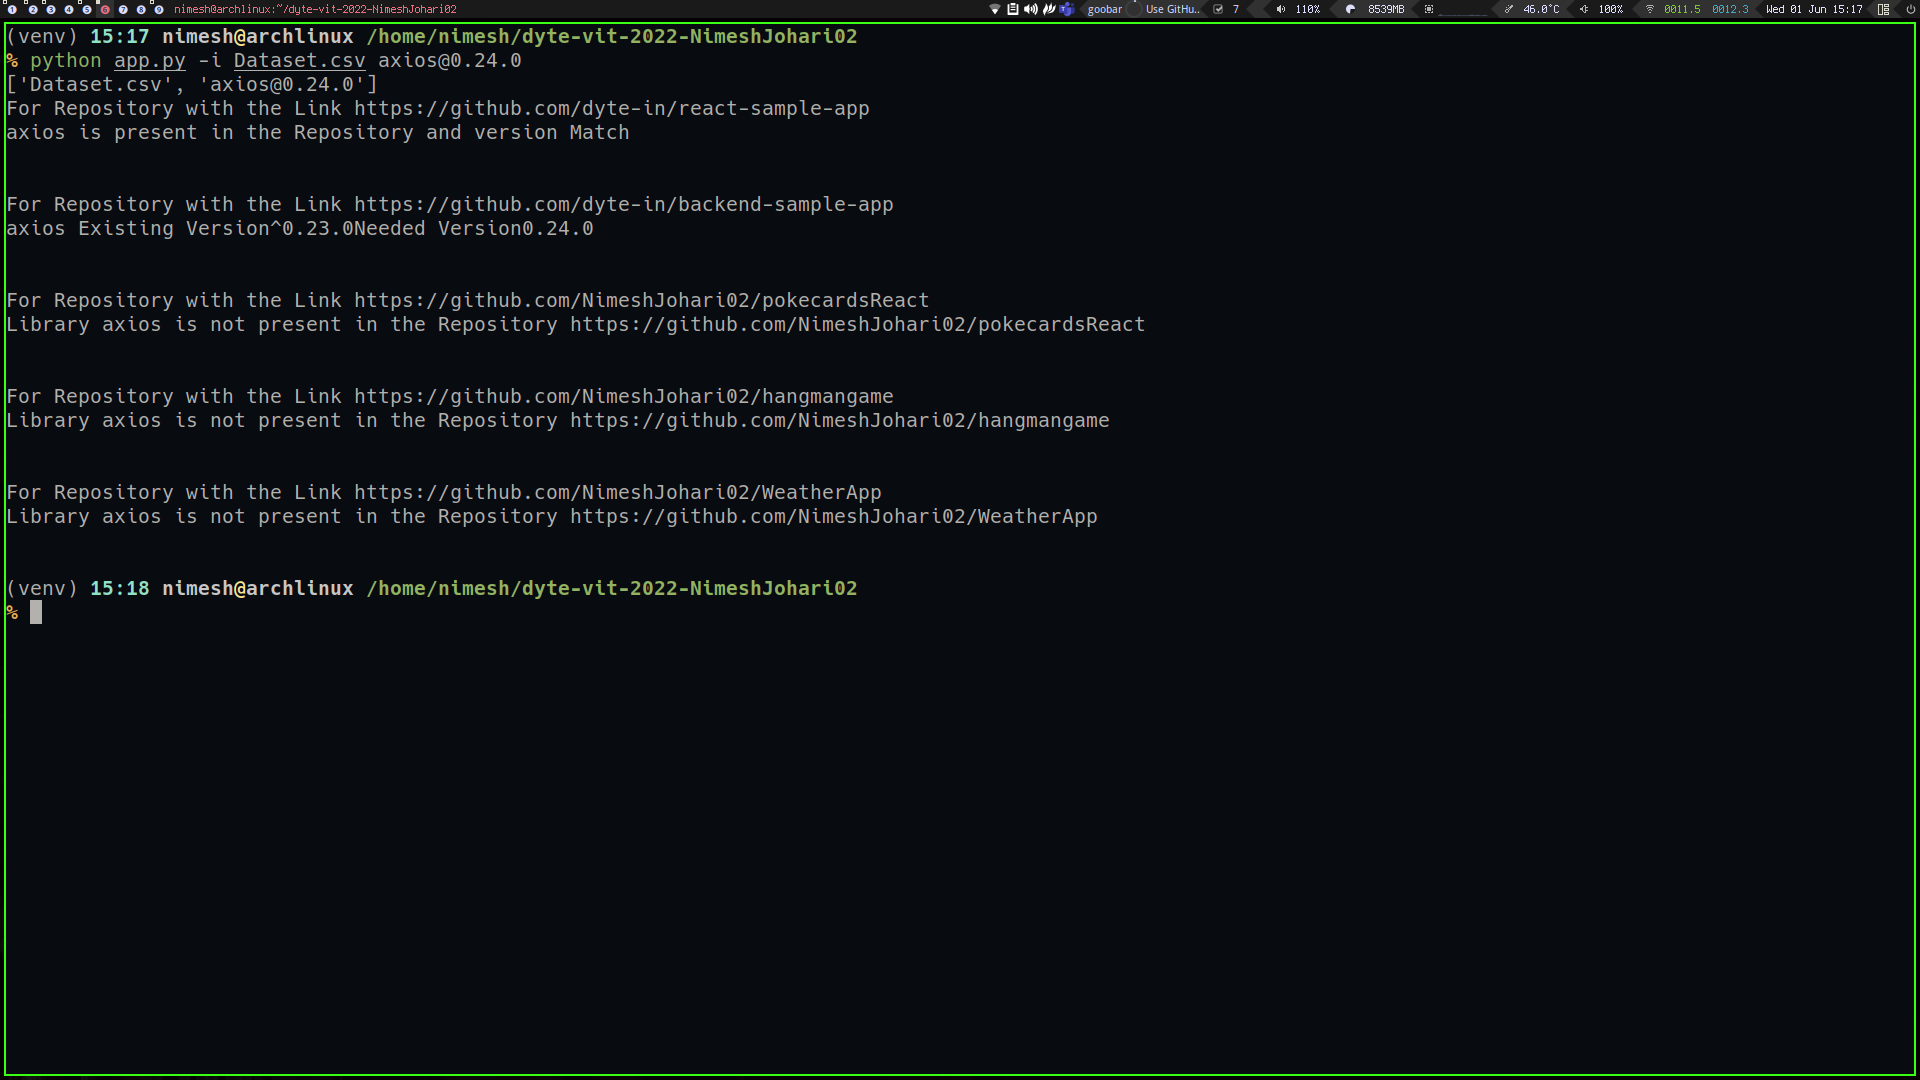
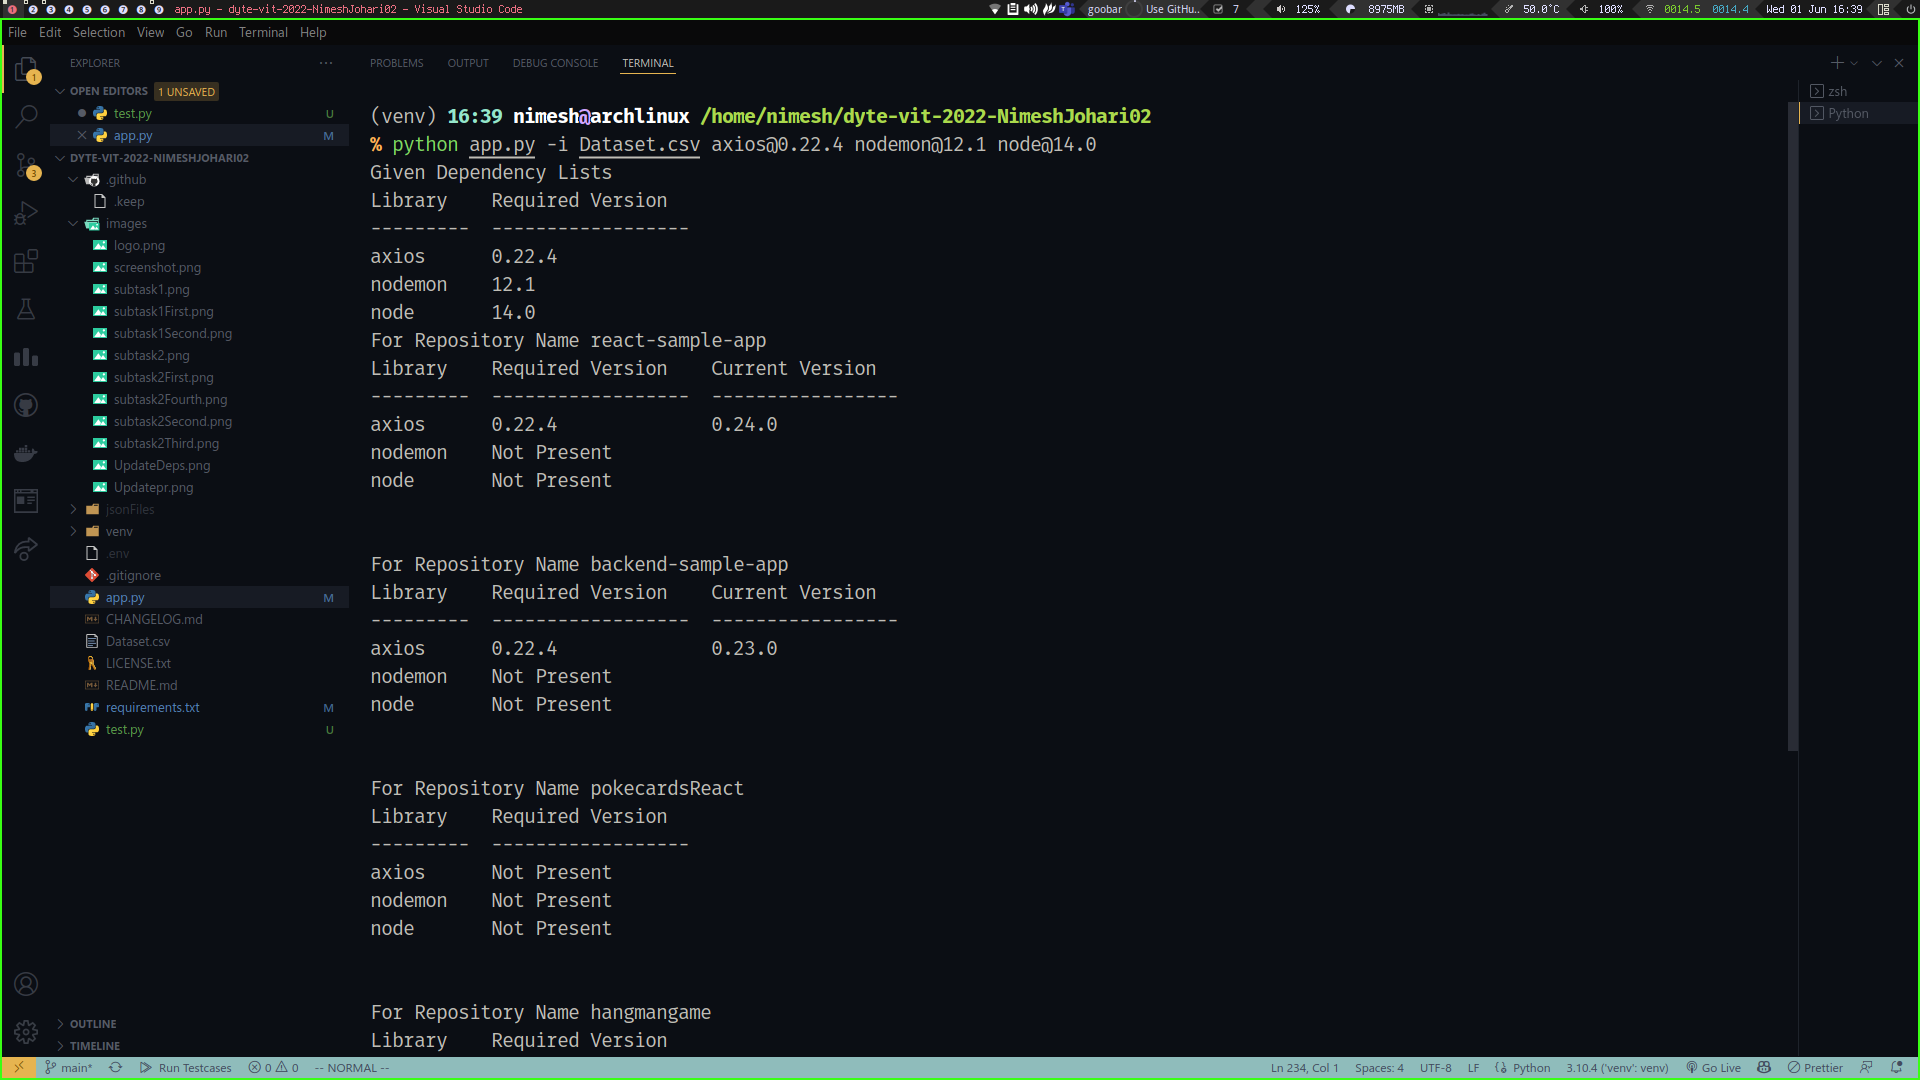
Init Test.py A No Download Version using PyGithub

diff --git a/app.py b/app.py
@@ -3,8 +3,9 @@ import csv
 from dbm.ndbm import library
 from doctest import REPORT_CDIFF
 import json, requests
+from sys import stdout
 from pip import main
-from pickle import TRUE
+from pickle import FALSE
 import os 
 import argparse
 from urllib.request import urlopen
@@ -13,17 +14,18 @@ from dotenv import load_dotenv
 from github import Github
 from base64 import b64encode
 from json import dumps
-
+from tabulate import tabulate
 
 load_dotenv();
+
 g = Github(os.getenv('GITHUB_AUTH_TOKEN'));
 username = os.getenv('GITHUB_USERNAME');
 auth_token = os.getenv('GITHUB_AUTH_TOKEN');
 
 
-def runcmd(cmd, verbose = False, *args, **kwargs):
+def runcmd(cmd, verbose = FALSE, *args, **kwargs):
     process = subprocess.Popen(
-        cmd,
+        cmd +" > /dev/null",
         stdout = subprocess.PIPE,
         stderr = subprocess.PIPE,
         text = True,
@@ -33,7 +35,7 @@ def runcmd(cmd, verbose = False, *args, **kwargs):
     if verbose:
         print(std_out.strip(), std_err)
     pass
-
+#Superss Output of runcmd
 # taking command line input 
 msg="Welcome to the Dyte Dependency CLI . Your reliable dependabot clone without the annoying Notifications :) ";
 parser = argparse.ArgumentParser(description=msg)
@@ -62,7 +64,6 @@ def getNodeModulesFile(url):
 librariesList = []
 for _, value in parser.parse_args()._get_kwargs():
     if value is not None:
-        print(value)
         librariesList = value[1:]
 #Check Whether required Libraries are present in the list
 inputDict={}
@@ -91,11 +92,8 @@ links=links[1:]
 # i need to create a dictionary with the links as keys and the dependencies as values
 def downloadFile(link):      
     name = link.split('/')[-1];
-    print(link)
-    print(name)
-    print(getRawURL(link))
     cmd = "curl " + getRawURL(link)+" --create-dirs -o jsonFiles/"+name+"/package.json"
-    runcmd(cmd , verbose=TRUE);
+    createDirs = runcmd(cmd , verbose=FALSE);
 
 def convertBase64ToJson(base64):
     return json.loads(base64)
@@ -111,10 +109,23 @@ def getPackageJson(link):
     # convert base64 to json
     json_data = convertBase64ToJson(base64)
     return json_data  
+# create table to store name and required version of each library
+print("Given Dependency Lists")
+def createTable(inputDict):
+    table = []
+    for key, value in inputDict.items():
+        table.append([key, value])
+    return table
+
+print(tabulate(createTable(inputDict), headers=['Library', 'Required Version']))
+
+table = []
 
 
+def getRepositoryName(link):
+    name = link.split('/')[-1]
+    return name 
 for link in links:
-    print("For Repository with the Link " + link)
     try:
         deps = getNodeModulesFile(link)['dependencies']
     except:
@@ -125,34 +136,35 @@ for link in links:
         if library in deps:
             #remove first char from deps[library]
             if inputDict[library] == deps[library].split('^')[1]:
-                print(library + " is present in the Repository and version Match "  )
+                #Add to table saying Curr Version is same as Required Version
+                table.append([library, inputDict[library] , deps[library].split('^')[1]])
             else:
-                print( library + " Existing Version" + deps[library] + "Needed Version" + inputDict[library])
-
+                #Add to table saying Curr Version is not same as Required Version
+                table.append([library,inputDict[library] ,  deps[library].split('^')[1]])
         else:
-            print("Library " + library + " is not present in the Repository " + link)
+            #Add to table saying Library is not present in the Repository
+            table.append([library, "Not Present"])
+    print("For Repository Name " + getRepositoryName(link))
+    print(tabulate(table, headers=['Library', 'Required Version', 'Current Version']))
+    #Clear Table for next Repository
+    table = []
     print("\n")
-
-
-def getRepositoryName(link):
-    name = link.split('/')[-1]
-    return name 
 
 #get repo name from link
 def performShallowClone(link):
     name = link.split('/')[-1];
     #get repo name from link
     cmd = "git clone " + link + " --depth 1 --branch main --single-branch jsonFiles/"+name
-    runcmd(cmd , verbose=TRUE);
+    # pipe output of command to null
+    clone = runcmd(cmd , verbose=FALSE );
 def clonePrivateRepo(link):
     name = link.split('/')[-1];
     cmd ="gh repo clone "+username+":"+name +" jsonFiles/"+name
-    runcmd(cmd , verbose=TRUE);
+    clonePvt = runcmd(cmd , verbose=FALSE);
 # def getPackageJSON(link):
 #     name = getRepositoryName(link);
 #     repository =g.get_repo(os.getenv('GITHUB_USERNAME')+'/'+name)
 #     content = repository.get_contents('package.json')
-#     print(content);
 #     base64_string = content.decode('utf-8')
 #     json_data = dumps(base64_string, indent=2)
 #     return json_data
@@ -165,13 +177,13 @@ def getForkURLFromURL(link):
 def getCompanyName(link):
     name = link.split('/')[-2];
     return name
-
+table = []
+# Table to store Repo Name Library Version Needed Version and Pull Request URL
 if args.update:
-    print("Updating Dependencies");
     #fork the repo 
     for link in links:
         cmd ="gh repo fork "+link;
-        runcmd(cmd , verbose=TRUE);
+        forkRepo = runcmd(cmd , verbose=FALSE);
         #get fork url
         name = getRepositoryName(link);
         str = getForkURLFromURL(link);
@@ -194,25 +206,28 @@ if args.update:
         #generate name for branch
         branchName = "update_"+library+"_"+inputDict[library]
         cmd = "cd jsonFiles/"+name+" && git checkout -b" +branchName+"&&  git add package.json && git commit -m 'updated dependencies' && git push --force origin "+branchName
-        runcmd(cmd , verbose=TRUE);
+        commitChanges = runcmd(cmd , verbose=FALSE);
         #open pull request using pygithub
         organisation_name = getCompanyName(link);
         #repo = g.get_repo(username+'/'+name)
         #create a pull request using pygithub
         try:
             #create pr from deps to master
-            cmd="""curl -u """+ username+""":"""+auth_token+""" -X POST -H "Accept: application/vnd.github.v3+json"  https://api.github.com/repos/"""+organisation_name+"/"+name+"""/pulls -d '{"title":"Update Dependency ","body":"Update Dependencies","head":"""+'"'+username+":"+branchName+'"'+""","base":"main"}'""";
-            runcmd(cmd , verbose=TRUE);
+           # cmd="""curl -u """+ username+""":"""+auth_token+""" -X POST -H "Accept: application/vnd.github.v3+json"  https://api.github.com/repos/"""+organisation_name+"/"+name+"""/pulls -d '{"title":"Update Dependency ","body":"Update Dependencies","head":"""+'"'+username+":"+branchName+'"'+""","base":"main"}'""";
+            #createPr = runcmd(cmd , verbose=False)
+            #get the pull request url and store in variable
+            cmd = "curl -u "+username+":"+auth_token+" -X GET -H \"Accept: application/vnd.github.v3+json\" https://api.github.com/repos/"+organisation_name+"/"+name+"/pulls"
+            #get Last Request from cmd 
+            pullRequestURL = runcmd(cmd , verbose=FALSE);
+            table.append([name, library, inputDict[library], deps[library].split('^')[1], pullRequestURL]);
         except Exception as e:
             print(e);
-            print("Pull Request Already Exists")
         #pr ="""gh api --method POST -H "Accept: application/vnd.github.v3+json" /repos/{}/{}/pulls -f title='Dependency Update' -f body='Please pull these awesome changes in!' -f head='{}:{}' -f base={}""".format(organisation_name,name,username,name,'main');
-        # runcmd(pr , verbose=TRUE);
+        # runcmd(pr , verbose=FALSE);
         #delete from local Storage
         cmd = "rm -rf jsonFiles/"+name
-        runcmd(cmd , verbose=TRUE);
+        remove = runcmd(cmd , verbose=FALSE);
         # Check For Already Made PR 
-        print("Checking for Pull Requests in Each Repository")
-        cmd = "gh pr list "+username+"/"+name+" | grep -i 'update_"+library+"_"+inputDict[library]+"'";
-        runcmd(cmd , verbose=TRUE);
-        
+        #Create Table
+        print(tabulate(table, headers=['Repository Name', 'Library', 'Required Version', 'Current Version', 'Pull Request URL']))
+        table=[];

diff --git a/test.py b/test.py
@@ -1,0 +1,137 @@
+from cProfile import run
+import csv
+from dbm.ndbm import library
+from doctest import REPORT_CDIFF
+import json, requests
+from sys import stdout
+from pip import main
+from pickle import FALSE
+import os 
+import argparse
+from urllib.request import urlopen
+import subprocess
+from dotenv import load_dotenv
+from github import Github
+from base64 import b64encode
+from json import dumps
+from tabulate import tabulate
+
+load_dotenv();
+
+g = Github(os.getenv('GITHUB_AUTH_TOKEN'));
+username = os.getenv('GITHUB_USERNAME');
+auth_token = os.getenv('GITHUB_AUTH_TOKEN');
+
+#Superss Output of runcmd
+# taking command line input 
+msg="Welcome to the Dyte Dependency CLI . Your reliable dependabot clone without the annoying Notifications :) ";
+parser = argparse.ArgumentParser(description=msg)
+parser.add_argument('-u' , '--update' , help="Update the Dependancy CLI"  , nargs='?' )
+parser.add_argument('-i', '--input', help='File to be read', nargs='+' , required=True)
+args = parser.parse_args()
+
+
+librariesList = []
+for _, value in parser.parse_args()._get_kwargs():
+    if value is not None:
+        librariesList = value[1:]
+#Check Whether required Libraries are present in the list
+inputDict={}
+for library in librariesList:
+    #split string at @ symbol as name and val
+    libraryName = library.split('@')[0]
+    libraryVersion = library.split('@')[1]
+    inputDict[libraryName] = libraryVersion
+
+#reading dataset.csv
+links=[]
+
+with open('Dataset.csv', 'r') as csvfile:
+    csvreader = csv.reader(csvfile , delimiter=',')
+    i=1
+    for row in csvreader:
+        links.append(row[1])
+links=links[1:]
+def convertBase64ToJson(base64):
+    return json.loads(base64)
+def getPackageJson(link):
+    name = link.split('/')[-1];
+    repo = g.get_repo(username + "/" + name);
+    pjson = repo.get_contents("package.json")
+    # get base64 encoded content
+    base64 = pjson.decoded_content
+    # convert base64 to json
+    json_data = convertBase64ToJson(base64)
+    return json_data  
+
+# create table to store name and required version of each library
+print("Given Dependency Lists")
+def createTable(inputDict):
+    table = []
+    for key, value in inputDict.items():
+        table.append([key, value])
+    return table
+
+print(tabulate(createTable(inputDict), headers=['Library', 'Required Version']))
+table = []
+
+
+def getRepositoryName(link):
+    name = link.split('/')[-1]
+    return name 
+for link in links:
+    deps = getPackageJson(link)['dependencies']    
+    #iterate over given libraries to find if deps are present
+    for library in inputDict:
+        if library in deps:
+            #remove first char from deps[library]
+            if inputDict[library] == deps[library].split('^')[1]:
+                #Add to table saying Curr Version is same as Required Version
+                table.append([library, inputDict[library] , deps[library].split('^')[1]])
+            else:
+                #Add to table saying Curr Version is not same as Required Version
+                table.append([library,inputDict[library] ,  deps[library].split('^')[1]])
+        else:
+            #Add to table saying Library is not present in the Repository
+            table.append([library, "Not Present"])
+    print("For Repository Name " + getRepositoryName(link))
+    print(tabulate(table, headers=['Library', 'Required Version', 'Current Version']))
+    #Clear Table for next Repository
+    table = []
+    print("\n")
+
+#get repo name from link
+def getCompanyName(link):
+    name = link.split('/')[-2];
+    return name
+table = []
+# Table to store Repo Name Library Version Needed Version and Pull Request URL
+if args.update:
+    for link in links:
+        #Fork Using pygithub
+        organisation_name = getCompanyName(link);
+        repo = g.get_repo(organisation_name + "/" + getRepositoryName(link))
+        repo.create_fork()
+        name = getRepositoryName(link)
+        #Get Forked Repo
+        forked_repo = g.get_repo(username + "/" + getRepositoryName(link))
+        fored_repo_link = forked_repo.html_url
+        jsonData = getPackageJson(fored_repo_link);
+        packjson = forked_repo.get_contents("package.json")
+        for library in inputDict:
+            if library in jsonData['dependencies']:
+                #remove first char from deps[library]
+                jsonData['dependencies'][library] = "^"+inputDict[library]
+        #write the changes to the file
+        print(jsonData)
+        #commit the changes
+        forked_repo.update_file("package.json", "Updating Dependencies", json.dumps(jsonData), packjson.sha, branch="main")
+        #Open Pull Request 
+        #pr = forked_repo.create_pull(title="Update Dependencies", body="Update Dependencies", head="main", base="main")
+        #get Pull Request URL
+        #pull_request_url = repo.get_pulls()[0].html_url
+        #Add to table 
+        #table.append([name, library, inputDict[library], pull_request_url])
+    print(tabulate(table, headers=['Repository Name', 'Library', 'Required Version', 'Pull Request URL']))
+    #clear table
+    table = []

diff --git a/README.md b/README.md
@@ -54,7 +54,7 @@ python app.py -i Dataset.csv axios@0.24.012 node@16.2 react@16.6 ejs@12.1
 #Add any number of Libraries and Versions Seperated by " " and Versions by "@"
 
 ```
-![App Screenshot](./images/subtask1First.png)
+![App Screenshot](./images/subtask.png)
 
 
 ![App Screenshot](./images/subtask1Second.png)
@@ -68,7 +68,7 @@ python app.py -u true -i Dataset.csv axios@0.24.012 node@16.2 react@16.6 ejs@12.
 #Add any number of Libraries and Versions Seperated by " " and Versions by "@"
 
 ```
-## Output For subtask 1
+## Output For subtask 2
 ![App Screenshot](./images/subtask2First.png)
 
 
